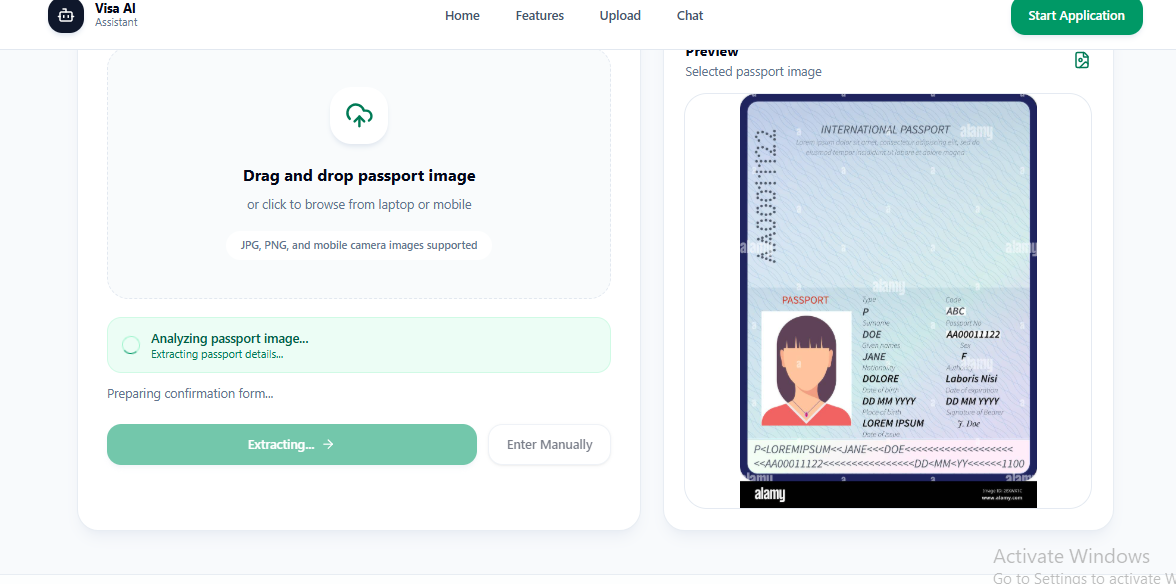
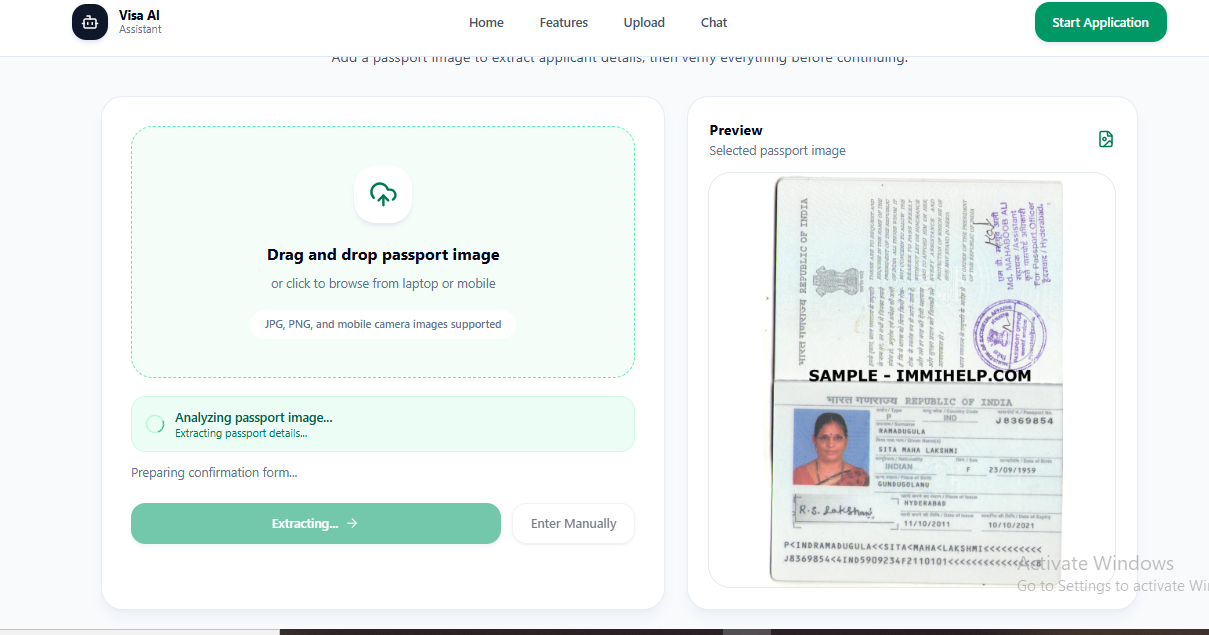
Added Passport types supported instructions

diff --git a/client/src/pages/ApplicantForm.jsx b/client/src/pages/ApplicantForm.jsx
@@ -229,17 +229,17 @@ function ApplicantForm() {
             </Card>
 
             <Card className="h-fit bg-slate-900 text-white">
-              <div className="flex h-12 w-12 items-center justify-center rounded-2xl bg-white/10">
-                <Bot className="h-6 w-6 text-emerald-200" />
+              <div className="flex h-12 w-12 items-center justify-center rounded-2xl bg-white/15 ring-1 ring-white/10">
+                <Bot className="h-6 w-6 text-emerald-100" />
               </div>
-              <h2 className="mt-5 text-xl font-bold">
-                AI helper
+              <h2 className="mt-5 text-xl font-bold text-white">
+                Ready for Review
               </h2>
-              <p className="mt-3 text-sm leading-6 text-slate-200">
-                Please verify your extracted details before continuing. Missing fields are okay for this demo, but incorrect fields should be corrected now.
+              <p className="mt-4 text-sm font-medium leading-7 text-slate-100">
+                Your passport details have been extracted successfully.
               </p>
-              <div className="mt-6 rounded-2xl bg-white/10 p-4 text-sm text-slate-100">
-                The assistant will use these confirmed passport details when saving the final application and generating the PDF.
+              <div className="mt-5 rounded-2xl bg-white/[0.12] p-4 text-sm font-medium leading-6 text-white ring-1 ring-white/10">
+                Please verify the information before proceeding to the visa application assistant.
               </div>
             </Card>
           </div>

diff --git a/client/src/pages/UploadPassport.jsx b/client/src/pages/UploadPassport.jsx
@@ -181,6 +181,31 @@ function UploadPassport() {
                 className="hidden"
               />
 
+              <div className="mt-6 grid gap-4 rounded-3xl border border-slate-200 bg-slate-50/80 p-5 sm:grid-cols-2">
+                <div>
+                  <h2 className="text-sm font-bold text-slate-950">
+                    Supported Passport Uploads
+                  </h2>
+                  <ul className="mt-3 space-y-2 text-sm leading-6 text-slate-600">
+                    <li>ICAO-compliant machine-readable passports (MRZ)</li>
+                    <li>Standard international passport formats</li>
+                    <li>Mobile and desktop uploaded passport images</li>
+                    <li>Clear passport biodata pages with visible MRZ lines</li>
+                  </ul>
+                </div>
+                <div>
+                  <h2 className="text-sm font-bold text-slate-950">
+                    Recommended Image Quality
+                  </h2>
+                  <ul className="mt-3 space-y-2 text-sm leading-6 text-slate-600">
+                    <li>Avoid blur and glare</li>
+                    <li>Ensure MRZ is fully visible</li>
+                    <li>Use clear lighting</li>
+                    <li>Avoid cropped passport images</li>
+                  </ul>
+                </div>
+              </div>
+
               {status && !isExtracting && (
                 <div className="mt-5">
                   <StatusBadge tone="emerald" icon={Sparkles}>{status}</StatusBadge>
